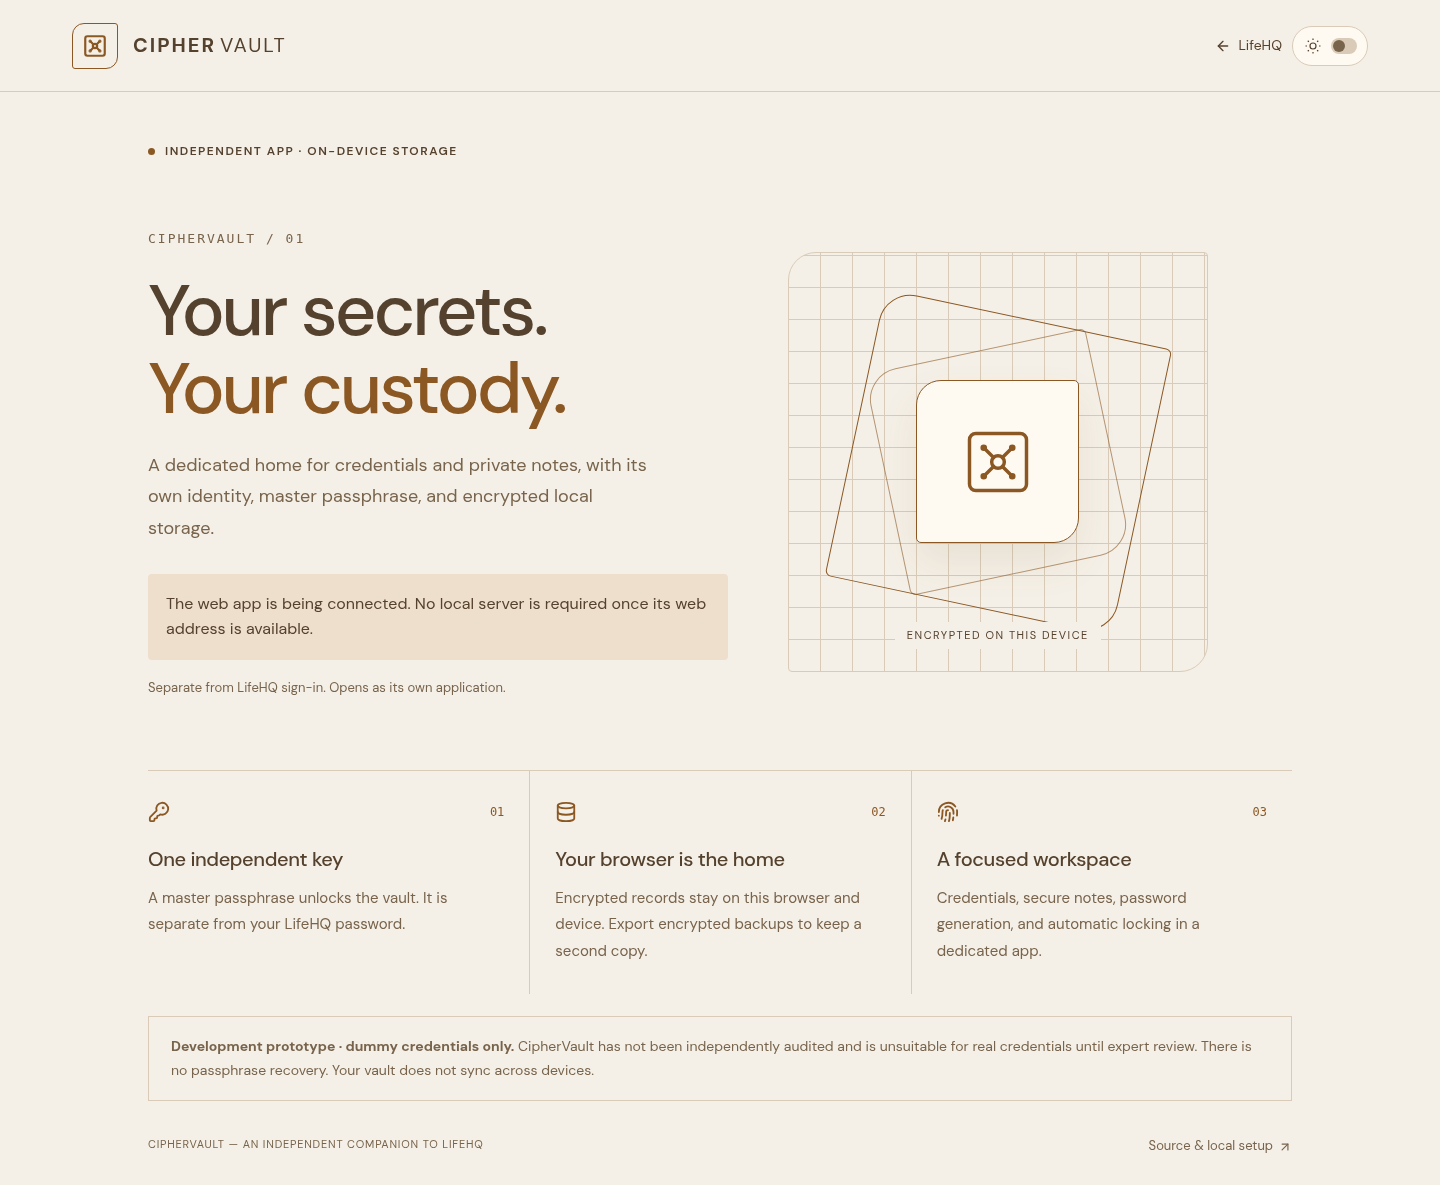
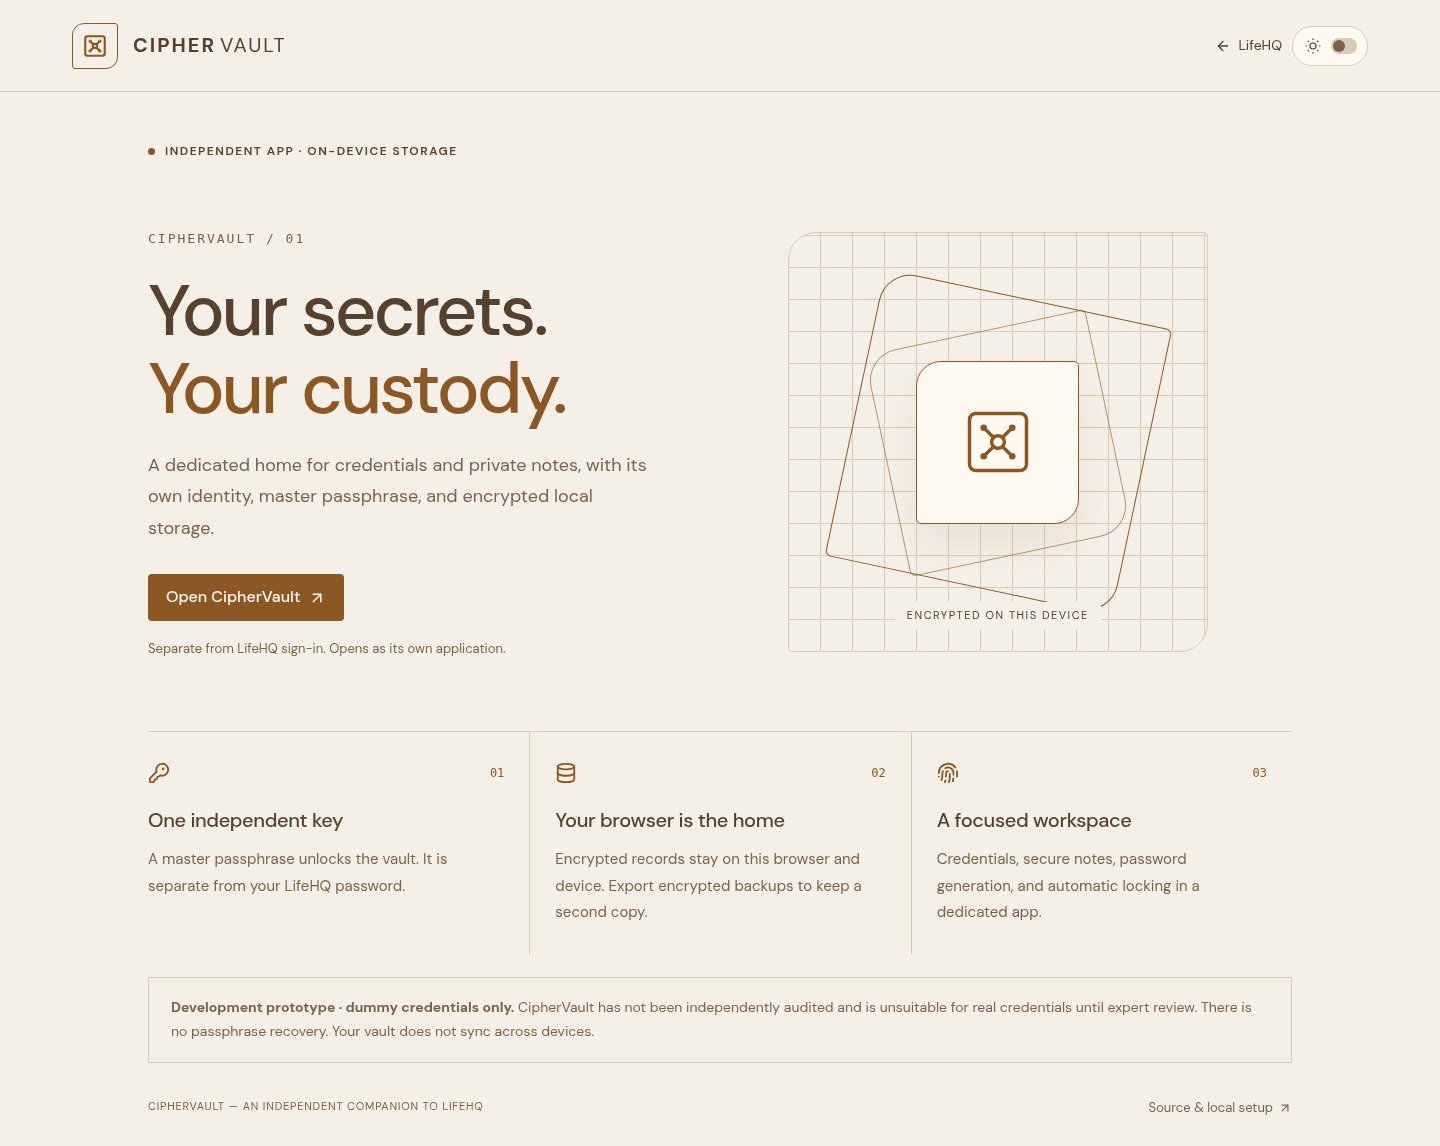
Connect hosted CipherVault launcher and finalize product branding

diff --git a/tests/e2e/lifehq.spec.ts b/tests/e2e/lifehq.spec.ts
@@ -705,6 +705,12 @@ test("Overview customization moves and hides its sections, and CipherVault is al
   ).toBeVisible();
   await expect(companion.locator(".sidebar")).toHaveCount(0);
   await expect(companion.locator("a[href*='localhost']")).toHaveCount(0);
+  await expect(
+    companion.getByRole("link", { name: "Open CipherVault", exact: false }),
+  ).toHaveAttribute("href", "https://ciphervault-radhe12.vercel.app");
+  await expect(
+    companion.getByRole("link", { name: "Open CipherVault", exact: false }),
+  ).toHaveAttribute("target", "_blank");
   await expect(companion.locator(".cipher-prototype")).toContainText(
     "dummy credentials only",
   );

diff --git a/apps/ciphervault/app/layout.tsx b/apps/ciphervault/app/layout.tsx
@@ -4,7 +4,7 @@ import type { Metadata } from "next";
 import "@lifehq/ui/styles.css";
 import "./styles.css";
 export const metadata: Metadata = {
-  title: "CipherVault — Local prototype",
+  title: "CipherVault — Your secrets. Your custody.",
   description:
     "An encrypted local-only prototype. Not independently audited. Use dummy credentials only.",
   robots: { index: false, follow: false },

diff --git a/apps/lifehq/components/vault-access.tsx b/apps/lifehq/components/vault-access.tsx
@@ -27,7 +27,7 @@ export function VaultAccess() {
           CIPHER<span className="cipher-wordmark-light">VAULT</span>
         </Link>
         <div className="row">
-          <Link className="cipher-back" href="/demo">
+          <Link className="cipher-back" href="/">
             <ArrowLeft size={16} /> LifeHQ
           </Link>
           <ThemeToggle />

diff --git a/docs/IMPLEMENTATION.md b/docs/IMPLEMENTATION.md
@@ -63,3 +63,5 @@ CipherVault's required prototype workflows are implemented and tested. It remain
 - Public login/auth requests no longer do middleware session-refresh work. Successful login performs one navigation; protected-page identity checks use verified claims, and API routes retain fresh user checks. Profile loading now runs alongside workspace-record requests.
 - CipherVault has its own branding, geometric presentation, standalone product page, and separate Vercel project. The production launcher uses a verified HTTPS origin instead of localhost. Hosting serves the interface; vault records remain local-only.
 - Automatic review rejected removing Vercel SSO protection; that access setting was retained. No paid services or cloud vault storage were enabled.
+
+CipherVault interface: https://ciphervault-radhe12.vercel.app — a separate browser-local prototype. The production root returned HTTP 200 through the Vercel connector, with its restrictive CSP and prototype label. This does not establish an independent crypto audit or complete hosted browser verification.

diff --git a/README.md b/README.md
@@ -73,3 +73,5 @@ Further documentation: [Architecture](ARCHITECTURE.md), [Design system](DESIGN_S
 ![LifeHQ dashboard with explicitly labeled local sample records](docs/screenshots/overview-1440.png)
 
 [Mobile tasks](docs/screenshots/tasks-390.png) · [Note editor](docs/screenshots/note-editor-1440.png) · [Project board](docs/screenshots/project-board-1440.png) · [Dark theme](docs/screenshots/overview-dark-1440.png) · [Vault dummy item](docs/screenshots/vault-detail-1440.png) · [Planner](docs/screenshots/planner-1440.png) · [Goals](docs/screenshots/goals-1440.png) · [Habits](docs/screenshots/habits-390.png) · [CipherVault setup](docs/screenshots/vault-setup-1440.png)
+
+CipherVault interface: https://ciphervault-radhe12.vercel.app — a separate browser-local prototype. The production root returned HTTP 200 through the Vercel connector, with its restrictive CSP and prototype label. This does not establish an independent crypto audit or complete hosted browser verification.
